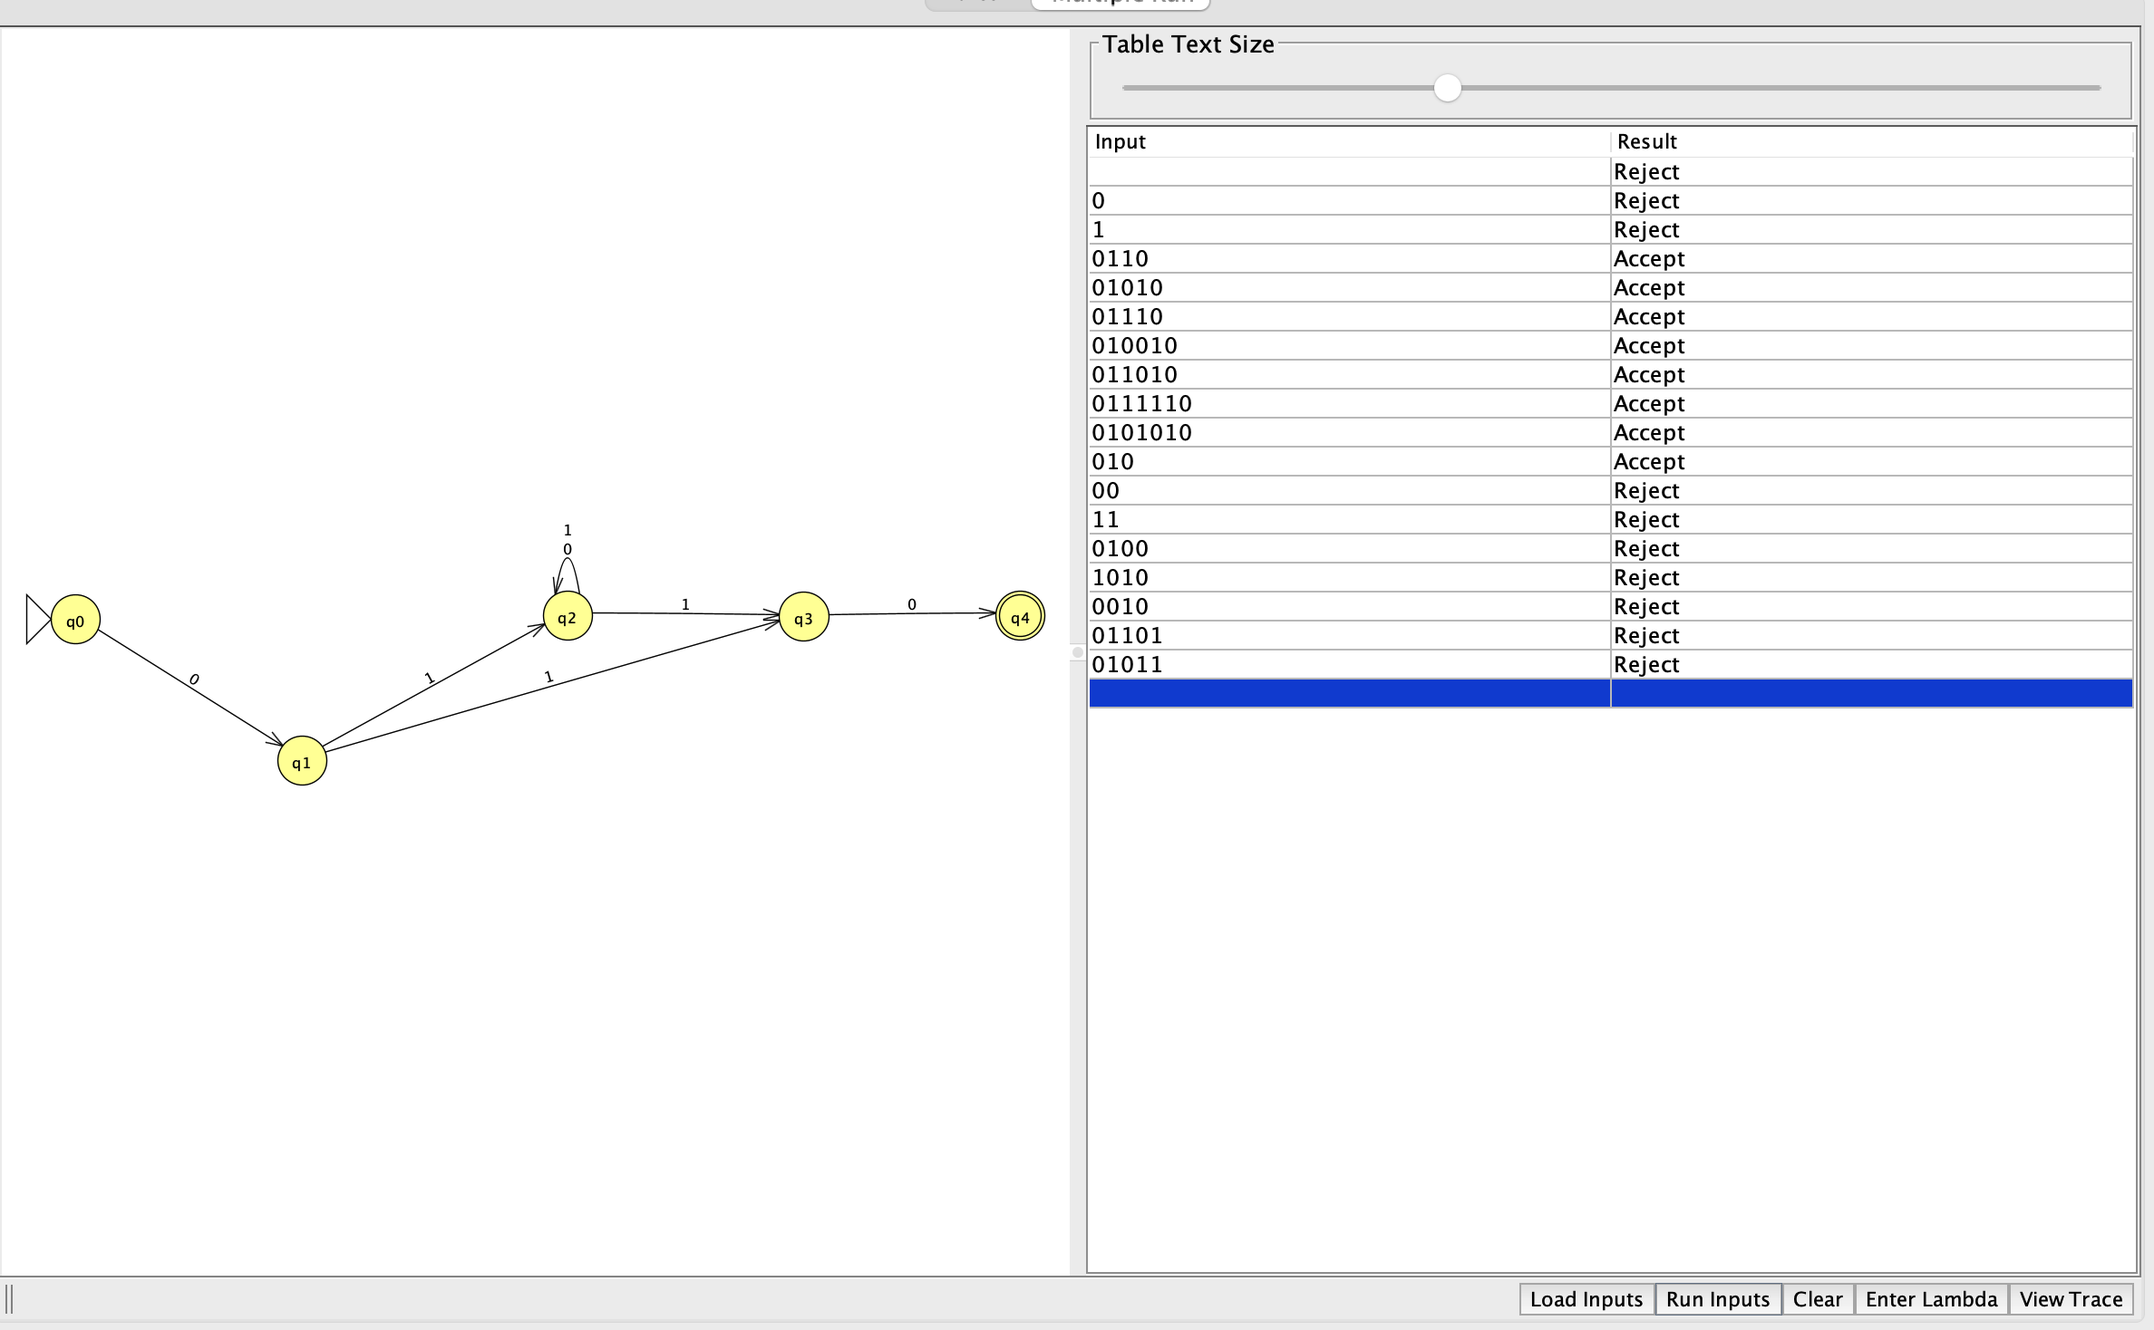
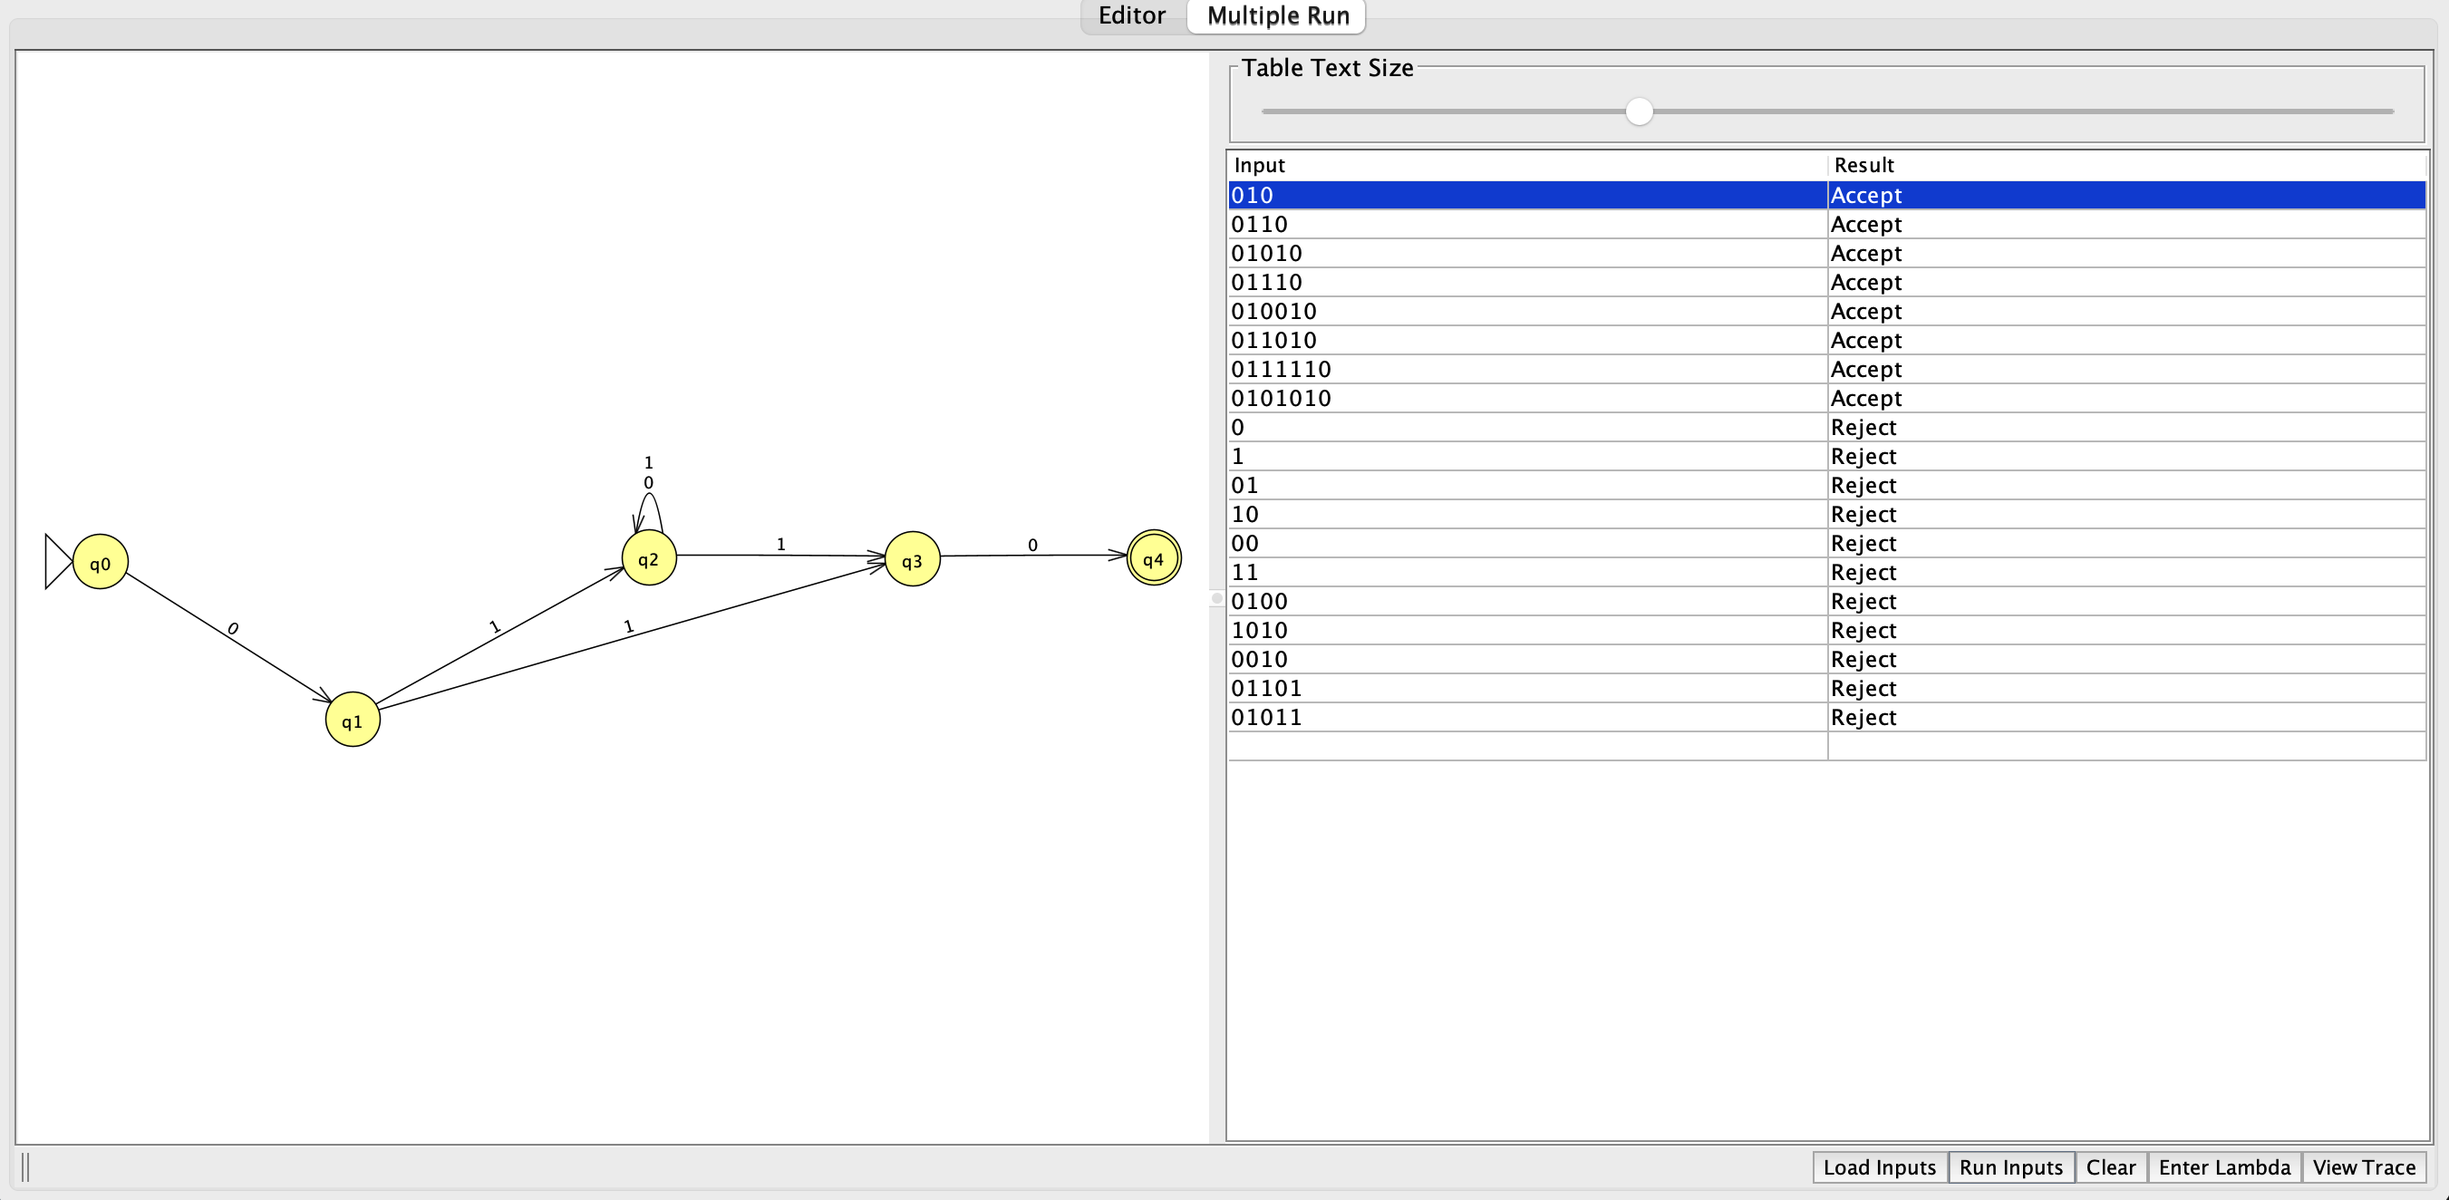
Add complete problem-specific batch runs and retain epsilon evidence

diff --git a/tools/attach_evidence.py b/tools/attach_evidence.py
@@ -6,7 +6,8 @@ STEPS = {8: 6, 16: 3, 20: 4}
 
 def inventory(n):
     base = f'n{n:02}'
-    items = [(f'{base}-batch', 'JFLAP Multiple Run results')]
+    items = [(f'{base}-batch', 'JFLAP Multiple Run results'),
+             (f'{base}-epsilon', 'Earlier JFLAP run showing the empty-string result')]
     if n in STEPS:
         items.append((f'{base}-tree', 'Hand-drawn computation tree'))
         items.extend((f'{base}-step-{i:02}', f'JFLAP step {i}') for i in range(STEPS[n] + 1))

diff --git a/n21r.md b/n21r.md
@@ -45,7 +45,7 @@ The suite includes short inputs, boundary counts, varied symbol orders, and long
 
 ## Verification status
 
-The included independent simulator checks every binary string through length 12 against the predicate above. All checks passed against the confirmed language definition. This is bounded test evidence; the argument above explains correctness for arbitrary input lengths. JFLAP runtime results are in `verification.txt`. A student-provided GUI Multiple Run screenshot is attached below. All 18 displayed results, including ε, match the language. The screenshot uses a shared input list and does not show the full problem-specific test file; full-suite GUI evidence remains pending.
+The included independent simulator checks every binary string through length 12 against the predicate above. All checks passed against the confirmed language definition. This is bounded test evidence; the argument above explains correctness for arbitrary input lengths. JFLAP runtime results are in `verification.txt`. The attached GUI Multiple Run screenshot shows all 19 inputs from `n21t.txt`, in order with accepted inputs first. Every displayed result matches the expected table. The earlier screenshot also documents ε: **Reject**.
 
 ## Computation example `01111`
 
@@ -66,30 +66,7 @@ One 0 and four 1 symbols satisfy both conditions. The machine accepts only when 
 
 ## Review of supplied batch screenshot
 
-The screenshot shows the NFA and these actual results:
-
-| Input | JFLAP result |
-|---|---|
-| ε | Reject |
-| `0` | Reject |
-| `1` | Reject |
-| `0110` | Reject |
-| `01010` | Reject |
-| `01110` | Reject |
-| `010010` | Reject |
-| `011010` | Reject |
-| `0111110` | Reject |
-| `0101010` | Reject |
-| `010` | Reject |
-| `00` | Reject |
-| `11` | Reject |
-| `0100` | Accept |
-| `1010` | Reject |
-| `0010` | Accept |
-| `01101` | Reject |
-| `01011` | Reject |
-
-Every displayed result is correct. Test-file inputs not shown: `01`, `10`, `01111`, `11110`, `0001`, `1000`, `1010101`, `0001111`, `01111111`, `111`, `1111`, `001`, `011`, `0111`, `001111`. Reload this problem’s own test file and capture the complete results to document those cases. The supplied screenshot mixes accepting and rejecting rows; the saved `.txt` file already orders accepting inputs first.
+All 19 test-file inputs are visible, their results are correct, and accepting inputs appear before rejecting inputs. The separate earlier-run image below records the empty-string result.
 
 ## JFLAP and hand-drawn evidence
 
@@ -98,5 +75,7 @@ See [EVIDENCE.md](EVIDENCE.md) for capture instructions and filenames.
 <!-- evidence:start -->
 
 ![JFLAP Multiple Run results](images/n21-batch.png)
+
+![Earlier JFLAP run showing the empty-string result](images/n21-epsilon.png)
 
 <!-- evidence:end -->

diff --git a/n20r.md b/n20r.md
@@ -44,7 +44,7 @@ The suite includes short inputs, boundary counts, varied symbol orders, and long
 
 ## Verification status
 
-The included independent simulator checks every binary string through length 12 against the predicate above. All checks passed against the confirmed language definition. This is bounded test evidence; the argument above explains correctness for arbitrary input lengths. JFLAP runtime results are in `verification.txt`. A student-provided GUI Multiple Run screenshot is attached below. All 18 displayed results, including ε, match the language. The screenshot uses a shared input list and does not show the full problem-specific test file; full-suite GUI evidence remains pending.
+The included independent simulator checks every binary string through length 12 against the predicate above. All checks passed against the confirmed language definition. This is bounded test evidence; the argument above explains correctness for arbitrary input lengths. JFLAP runtime results are in `verification.txt`. The attached GUI Multiple Run screenshot shows all 18 inputs from `n20t.txt`, in order with accepted inputs first. Every displayed result matches the expected table. The earlier screenshot also documents ε: **Reject**.
 
 ## Computation example `1111`
 
@@ -64,30 +64,7 @@ Four 1 symbols end in q2 and accept even though there are zero 0 symbols. An OR 
 
 ## Review of supplied batch screenshot
 
-The screenshot shows the NFA and these actual results:
-
-| Input | JFLAP result |
-|---|---|
-| ε | Reject |
-| `0` | Accept |
-| `1` | Accept |
-| `0110` | Reject |
-| `01010` | Accept |
-| `01110` | Reject |
-| `010010` | Reject |
-| `011010` | Accept |
-| `0111110` | Reject |
-| `0101010` | Reject |
-| `010` | Accept |
-| `00` | Reject |
-| `11` | Reject |
-| `0100` | Accept |
-| `1010` | Reject |
-| `0010` | Accept |
-| `01101` | Reject |
-| `01011` | Reject |
-
-Every displayed result is correct. Test-file inputs not shown: `01`, `10`, `1111`, `001`, `000`, `1111111`, `01010101`, `111`, `0011`, `00111`, `0101`, `000000`, `111111`. Reload this problem’s own test file and capture the complete results to document those cases. The supplied screenshot mixes accepting and rejecting rows; the saved `.txt` file already orders accepting inputs first.
+All 18 test-file inputs are visible, their results are correct, and accepting inputs appear before rejecting inputs. The separate earlier-run image below records the empty-string result.
 
 ## JFLAP and hand-drawn evidence
 
@@ -96,6 +73,8 @@ See [EVIDENCE.md](EVIDENCE.md) for capture instructions and filenames.
 <!-- evidence:start -->
 
 ![JFLAP Multiple Run results](images/n20-batch.png)
+
+![Earlier JFLAP run showing the empty-string result](images/n20-epsilon.png)
 
 Pending: `n20-tree.png`.
 

diff --git a/n16r.md b/n16r.md
@@ -44,7 +44,7 @@ The suite includes short inputs, boundary counts, varied symbol orders, and long
 
 ## Verification status
 
-The included independent simulator checks every binary string through length 12 against the predicate above. All checks passed against the confirmed language definition. This is bounded test evidence; the argument above explains correctness for arbitrary input lengths. JFLAP runtime results are in `verification.txt`. A student-provided GUI Multiple Run screenshot is attached below. All 18 displayed results, including ε, match the language. The screenshot uses a shared input list and does not show the full problem-specific test file; full-suite GUI evidence remains pending.
+The included independent simulator checks every binary string through length 12 against the predicate above. All checks passed against the confirmed language definition. This is bounded test evidence; the argument above explains correctness for arbitrary input lengths. JFLAP runtime results are in `verification.txt`. The attached GUI Multiple Run screenshot shows all 18 inputs from `n16t.txt`, in order with accepted inputs first. Every displayed result matches the expected table. The earlier screenshot also documents ε: **Accept**.
 
 ## Computation example `110101`
 
@@ -68,30 +68,7 @@ JFLAP stops after attempting the third symbol (`0`), because q0 has no transitio
 
 ## Review of supplied batch screenshot
 
-The screenshot shows the NFA and these actual results:
-
-| Input | JFLAP result |
-|---|---|
-| ε | Accept |
-| `0` | Reject |
-| `1` | Accept |
-| `0110` | Reject |
-| `01010` | Reject |
-| `01110` | Reject |
-| `010010` | Reject |
-| `011010` | Reject |
-| `0111110` | Reject |
-| `0101010` | Reject |
-| `010` | Reject |
-| `00` | Reject |
-| `11` | Accept |
-| `0100` | Reject |
-| `1010` | Accept |
-| `0010` | Reject |
-| `01101` | Reject |
-| `01011` | Reject |
-
-Every displayed result is correct. Test-file inputs not shown: `10`, `101`, `111`, `10101`, `11111`, `101010`, `01`, `100`, `110`, `10100`, `1001`, `0101`, `110101`. Reload this problem’s own test file and capture the complete results to document those cases. The supplied screenshot mixes accepting and rejecting rows; the saved `.txt` file already orders accepting inputs first.
+All 18 test-file inputs are visible, their results are correct, and accepting inputs appear before rejecting inputs. The separate earlier-run image below records the empty-string result.
 
 ## JFLAP and hand-drawn evidence
 
@@ -100,6 +77,8 @@ See [EVIDENCE.md](EVIDENCE.md) for capture instructions and filenames.
 <!-- evidence:start -->
 
 ![JFLAP Multiple Run results](images/n16-batch.png)
+
+![Earlier JFLAP run showing the empty-string result](images/n16-epsilon.png)
 
 Pending: `n16-tree.png`.
 

diff --git a/n08r.md b/n08r.md
@@ -45,7 +45,7 @@ The suite includes short inputs, boundary counts, varied symbol orders, and long
 
 ## Verification status
 
-The included independent simulator checks every binary string through length 12 against the predicate above. All checks passed against the confirmed language definition. This is bounded test evidence; the argument above explains correctness for arbitrary input lengths. JFLAP runtime results are in `verification.txt`. A student-provided GUI Multiple Run screenshot is attached below. All 18 displayed results, including ε, match the language. The screenshot uses a shared input list and does not show the full problem-specific test file; full-suite GUI evidence remains pending.
+The included independent simulator checks every binary string through length 12 against the predicate above. All checks passed against the confirmed language definition. This is bounded test evidence; the argument above explains correctness for arbitrary input lengths. JFLAP runtime results are in `verification.txt`. The attached GUI Multiple Run screenshot shows all 19 inputs from `n08t.txt`, in order with accepted inputs first. Every displayed result matches the expected table. The earlier screenshot also documents ε: **Reject**.
 
 ## Computation example `011010`
 
@@ -67,30 +67,7 @@ After `011`, retain both q2 and q3. A branch that guesses an ending too early ca
 
 ## Review of supplied batch screenshot
 
-The screenshot shows the NFA and these actual results:
-
-| Input | JFLAP result |
-|---|---|
-| ε | Reject |
-| `0` | Reject |
-| `1` | Reject |
-| `0110` | Accept |
-| `01010` | Accept |
-| `01110` | Accept |
-| `010010` | Accept |
-| `011010` | Accept |
-| `0111110` | Accept |
-| `0101010` | Accept |
-| `010` | Accept |
-| `00` | Reject |
-| `11` | Reject |
-| `0100` | Reject |
-| `1010` | Reject |
-| `0010` | Reject |
-| `01101` | Reject |
-| `01011` | Reject |
-
-Every displayed result is correct. Test-file inputs not shown: `01`, `10`. Reload this problem’s own test file and capture the complete results to document those cases. The supplied screenshot mixes accepting and rejecting rows; the saved `.txt` file already orders accepting inputs first.
+All 19 test-file inputs are visible, their results are correct, and accepting inputs appear before rejecting inputs. The separate earlier-run image below records the empty-string result.
 
 ## JFLAP and hand-drawn evidence
 
@@ -99,6 +76,8 @@ See [EVIDENCE.md](EVIDENCE.md) for capture instructions and filenames.
 <!-- evidence:start -->
 
 ![JFLAP Multiple Run results](images/n08-batch.png)
+
+![Earlier JFLAP run showing the empty-string result](images/n08-epsilon.png)
 
 Pending: `n08-tree.png`.
 

diff --git a/n12r.md b/n12r.md
@@ -42,35 +42,12 @@ The suite includes short inputs, boundary counts, varied symbol orders, and long
 
 ## Verification status
 
-The included independent simulator checks every binary string through length 12 against the predicate above. All checks passed against the confirmed language definition. This is bounded test evidence; the argument above explains correctness for arbitrary input lengths. JFLAP runtime results are in `verification.txt`. A student-provided GUI Multiple Run screenshot is attached below. All 18 displayed results, including ε, match the language. The screenshot uses a shared input list and does not show the full problem-specific test file; full-suite GUI evidence remains pending.
+The included independent simulator checks every binary string through length 12 against the predicate above. All checks passed against the confirmed language definition. This is bounded test evidence; the argument above explains correctness for arbitrary input lengths. JFLAP runtime results are in `verification.txt`. The attached GUI Multiple Run screenshot shows all 16 inputs from `n12t.txt`, in order with accepted inputs first. Every displayed result matches the expected table. The earlier screenshot also documents ε: **Reject**.
 
 
 ## Review of supplied batch screenshot
 
-The screenshot shows the NFA and these actual results:
-
-| Input | JFLAP result |
-|---|---|
-| ε | Reject |
-| `0` | Reject |
-| `1` | Reject |
-| `0110` | Reject |
-| `01010` | Reject |
-| `01110` | Accept |
-| `010010` | Reject |
-| `011010` | Accept |
-| `0111110` | Reject |
-| `0101010` | Accept |
-| `010` | Reject |
-| `00` | Reject |
-| `11` | Reject |
-| `0100` | Reject |
-| `1010` | Reject |
-| `0010` | Reject |
-| `01101` | Accept |
-| `01011` | Accept |
-
-Every displayed result is correct. Test-file inputs not shown: `111`, `0111`, `1110`, `10101`, `000111000`, `1001001`, `1111`, `000`, `11110`, `011110`, `0001111000`. Reload this problem’s own test file and capture the complete results to document those cases. The supplied screenshot mixes accepting and rejecting rows; the saved `.txt` file already orders accepting inputs first.
+All 16 test-file inputs are visible, their results are correct, and accepting inputs appear before rejecting inputs. The separate earlier-run image below records the empty-string result.
 
 ## JFLAP and hand-drawn evidence
 
@@ -79,5 +56,7 @@ See [EVIDENCE.md](EVIDENCE.md) for capture instructions and filenames.
 <!-- evidence:start -->
 
 ![JFLAP Multiple Run results](images/n12-batch.png)
+
+![Earlier JFLAP run showing the empty-string result](images/n12-epsilon.png)
 
 <!-- evidence:end -->

diff --git a/README.md b/README.md
@@ -2,7 +2,7 @@
 
 Problems **8, 12, 16, 20, and 21**. The initial commit preserves the five original JFLAP files; the next commit adds tests, diagrams, reports, and reproducible verification.
 
-**Work in progress — not ready for grading.** The student supplied and confirmed all five language definitions. All five existing automata match those definitions; no transition changes were needed. JFLAP batch screenshots are attached for all five problems; all displayed results are correct. The screenshots use a shared input list, so complete runs of each problem-specific test file still need to be documented. Hand-drawn computation trees and step screenshots for at least three problems remain outstanding. The learning reflection below has been added from the student's notes with AI editing assistance.
+**Work in progress — not ready for grading.** The student supplied and confirmed all five language definitions. All five existing automata match those definitions; no transition changes were needed. JFLAP batch screenshots show the complete problem-specific test files for all five problems, with accepting inputs first and every result correct. Earlier screenshots also document the empty-string checks. Hand-drawn computation trees and step screenshots for at least three problems remain outstanding. The learning reflection below has been added from the student's notes with AI editing assistance.
 
 | Problem | Language currently checked | Report |
 |---|---|---|

diff --git a/EVIDENCE.md b/EVIDENCE.md
@@ -1,6 +1,6 @@
 # Evidence capture checklist
 
-The automata and expected results are verified. Five student-provided batch screenshots are attached and their visible results checked. They use a shared input list; rerun each problem-specific test file to cover the missing cases listed in each report. The student will capture the JFLAP screenshots and supply the hand-drawn photos; the README reflection has been added from the student’s notes with AI editing assistance. Save images in this repo's `images` folder.
+The automata and expected results are verified. Five student-provided batch screenshots now show every input in each problem-specific test file, with all results checked and correct. Earlier runs are retained as `images/nXX-epsilon.png` to document the empty-string checks. The student will capture the JFLAP screenshots and supply the hand-drawn photos; the README reflection has been added from the student’s notes with AI editing assistance. Save images in this repo's `images` folder.
 
 ## Batch runs for all five problems
 
